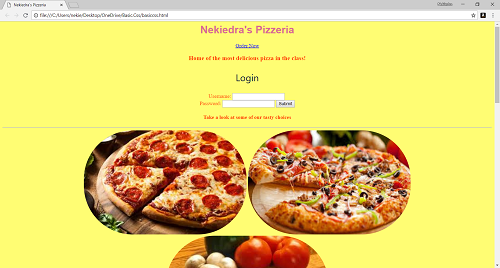
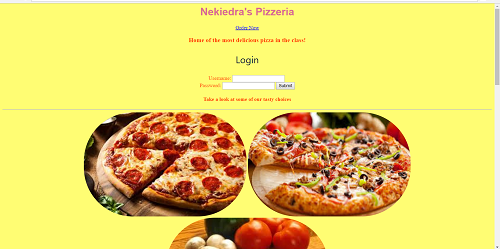
added links to projects

diff --git a/Basic.Css/basiccss.html b/Basic.Css/basiccss.html
@@ -1,0 +1,109 @@
+<html>
+<head>
+    <title>Nekiedra's Pizzeria</title> 
+    <link href="css/basic.css" type="text/css" rel="stylesheet">
+</head>
+<body>
+    <h1 id="top">Nekiedra's Pizzeria</h1>
+    <a href="#order_now">Order Now</a>
+    <h3>Home of the most delicious pizza in the class!</h3>
+    <p>Login</p>
+    <form action="http://www.example.com/login/" method="post">
+        <!--Username and Password-->
+        <label for="username">Username:</label> 
+        <input type="text" name="username" required="required" />
+        <!--Why does this have to be required-->
+        <br>
+        <label for="password">Password:</label>
+        <input type="password" name="password" required="required" />
+        <input type="submit" value="Submit" />
+    </form>
+    <h4>Take a look at some of our tasty choices</h4>
+    <hr />
+    <img src="images/pizza.png" style width="500" height="400" />
+    <img src="images/pizza2.jpg" style width="500" height="400" />
+    <img src="images/pizza3.png" style width="500" height="400" />
+    <hr />
+    <p>Now look at this short video</p>
+    <iframe width="500" height="400" src="https://www.youtube.com/embed/7S9ReKGxGMs" frameborder="2" allow="autoplay; encrypted-media"
+        allowfullscreen></iframe>
+    <hr />
+    <h3>Prices</h3>
+    <table class='Table' style width="1200">
+        <tr>
+            <th>Size</th>
+            <th>1 topping</th>
+            <th>2 toppings</th>
+            <th>3 toppings</th>
+            <th>4 toppings</th>
+        </tr>
+        <tr>
+            <td>
+                <b>Small</b>
+            </td>
+            <td>5.99</td>
+            <td>6.49</td>
+            <td>6.99</td>
+            <td>7.49</td>
+        </tr>
+        <tr>
+            <td>
+                <b>Medium</b>
+            </td>
+            <td>7.99</td>
+            <td>8.49</td>
+            <td>8.99</td>
+            <td>9.49</td>
+        </tr>
+        <tr>
+            <td>
+                <b>Large</b>
+            </td>
+            <td>9.99</td>
+            <td>10.49</td>
+            <td>10.99</td>
+            <td>11.49</td>
+        </tr>
+    </table>
+    <hr />
+    <h3 id="order_now">ORDER HERE</h3>
+    <form action="http://www.example.com/profile.php">
+        <!--Radio button-->
+        <p>Will you be dining in or carrying out?</p>
+        <br>
+        <input type="radio" value="Take-out" /> Carryout
+        <input type="radio" value="Dine in" /> Dine-In
+
+        <p>What size pizza would you like?</p>
+        <select name="format">
+            <option value="Small"> Small </option>
+            <option value="Medium"> Medium</option>
+            <option value="Large"> Large</option>
+            <option value="Ex-Large" /> Extra Large </option>
+        </select>
+        <p> What toppings would you like?</p>
+        <select name="format" multiple="multiple">
+            <option value="cheese">Cheese</option>
+            <option value="pepperoni">Pepperoni</option>
+            <option value="sausage">Sausage</option>
+            <option value="bacon">Bacon</option>
+            <option value="beef">Beef</option>
+            <option value="spinach">Spinach</option>
+            <option value="ham">Ham</option>
+            <option value="chicken">Chicken</option>
+            <option value="tomatoes">Tomatoes</option>
+            <option value="Onions">Onions</option>
+            <option value="red peppers">Red Peppers</option>
+            <option value="green peppers">Green Peppers</option>
+            <option value="Pineapple">Pineapple</option>
+            <option value="mushhroom">Mushroom</option>
+            <option value="olive">Olive</option>
+        </select>
+        <p>Special instructions</p>
+        <textarea name="comments" col="20" rows="3">...</textarea>
+        <br>
+        <input type="submit" value="Submit" />
+    </form>
+    <a href="#top">top</a>
+</body>
+</html>

diff --git a/index.html b/index.html
@@ -18,7 +18,7 @@
     <div class="first container">
       <div class="row">
         <div class="headshot col-sm-offset-1 col-sm-10">
-          <img class="img-circle" src="images/linkedin.jpg"/>         
+          <img class="img-circle img-responsive" src="images/linkedin.jpg"/>         
           <h1>Nekiedra Singleton</h1>
           <p>Jr Developer-In Training</p>
           
@@ -58,12 +58,12 @@
             <h2>My Projects</h2>
             <p>Below is a list of projects that I have done.</p>
             <ul>
-              <li><img src="images/detroix.png"/></li>
-              <li><a href=""> Detroix Project</a></li>
-              <li><img src="images/vendor.png"/></li>
-              <li><a href="">Vendor Project</a></li>
-              <li><img src="images/pizza.png"/></li>
-              <li><a href=""> Pizza Project</a></li>
+              <li><img class="img-responsive" src="images/detroix.png"/></li>
+              <li><a href="960_project/index.html"> Detroix Project</a></li>
+              <li><img class="img-responsive" src="images/vendor.png"/></li>
+              <li><a href="Bootstrap_project/index.html">Vendor Project</a></li>
+              <li><img class="img-responsive" src="images/pizza.png"/></li>
+              <li><a href="Basic.Css/basiccss.html"> Pizza Project</a></li>
             </ul>
           </div>
         </div>
@@ -73,7 +73,7 @@
   <div class="contact">
     <div class="container">
       <div class="row">
-        <div class="col-sm-offset-2 col-sm-10">
+        <div class="col-sm-offset-1 col-sm-10">
           <div class="row">
             <div class="col-sm-12">
               <h2>Contact Info</h2>
@@ -92,7 +92,6 @@
             </div>
           </div>
         </div>
-        
       </div>
     </div>
   </div>

diff --git a/Basic.Css/css/style.css b/Basic.Css/css/style.css
@@ -1,0 +1,50 @@
+.main {
+    background-color: blueviolet;
+    width: 300px;
+    height: 300px;
+    margin: 50px;e
+    padding: 25px;
+    border:
+}
+
+.block1 {
+    background-color: rgb(226, 162, 43);
+    width: 50px;
+    height: 50px;
+    color: rgb(0, 73, 39);
+    text-align: center;
+    font-size: 34;
+    position: absolute;
+    top: 10px;
+    right: 10px;
+}
+
+.block2 {
+    background-color: crimson;
+    width: 50px;
+    height: 50px;
+    color: black;
+    text-align: center;
+    font-size: 34;
+    position: absolute;
+    top: 10px;
+    bottom: 10px;
+}
+
+.block3 {
+    background-color: aqua;
+    width: 50px;
+    height: 50px;
+    color: brown;
+    text-align: center;
+    font-size: 34;
+}
+
+.block4 {
+    background-color: khaki;
+    width: 50px;
+    height: 50px;
+    color: brown;
+    text-align: center;
+    font-size: 34;
+}

diff --git a/Basic.Css/css/basic.css b/Basic.Css/css/basic.css
@@ -1,0 +1,24 @@
+body {
+    background-color: #fffd73;
+    color: rgb(255, 60, 0);
+    text-align: center;
+} 
+
+h1{
+    font-family: Arial, Helvetica, sans-serif;
+    color: rgb(0, 0, 0);
+}
+p{
+    font-family: 'Segoe UI', Tahoma, Geneva, Verdana, sans-serif;
+    color: rgb(9, 25, 56);
+    font-size: 29px;
+}
+
+img {
+    width: 500px;
+    height:320px;
+    border-radius: 150px;
+}
+.Table table{
+    text-align: center;
+}

diff --git a/Basic.Css/index.html b/Basic.Css/index.html
@@ -1,0 +1,17 @@
+<html>
+    <head>
+        <link rel="stylesheet" href="css/style.css">
+    </head>
+    <body>
+        <p>
+            <div class="main">
+                <div class="block1">1</div>
+                <div class="block2">2</div>
+                <div class="block3">3</div>
+                <div class="block4">4</div>
+            </div>
+        </p>
+    </body>
+</html>
+
+    

diff --git a/css/style.css b/css/style.css
@@ -60,7 +60,7 @@ body{
 .about {
     background-color: #096972;
     text-align: center;
-    color: #c7873a;
+    color: #2e2e2e;
 
 
 }
